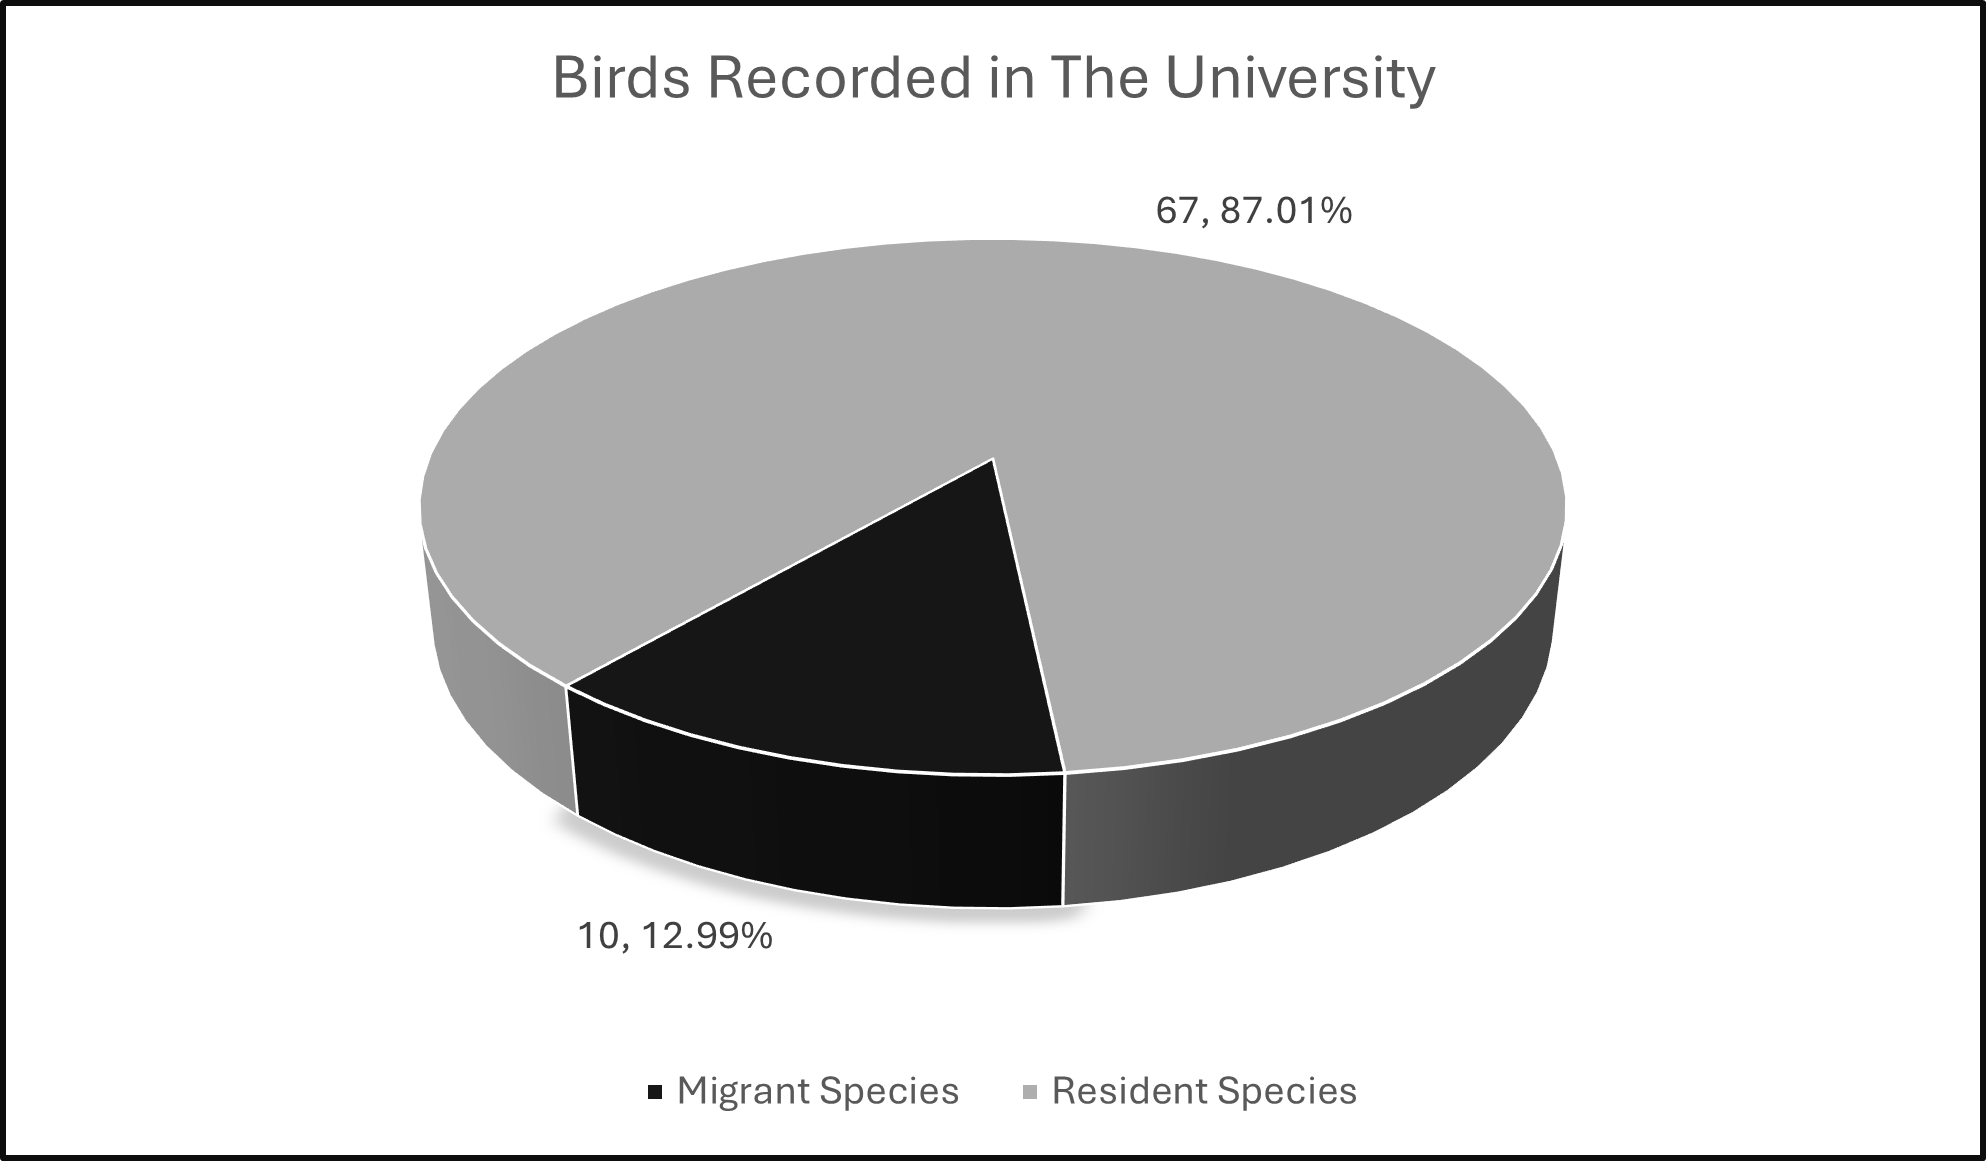
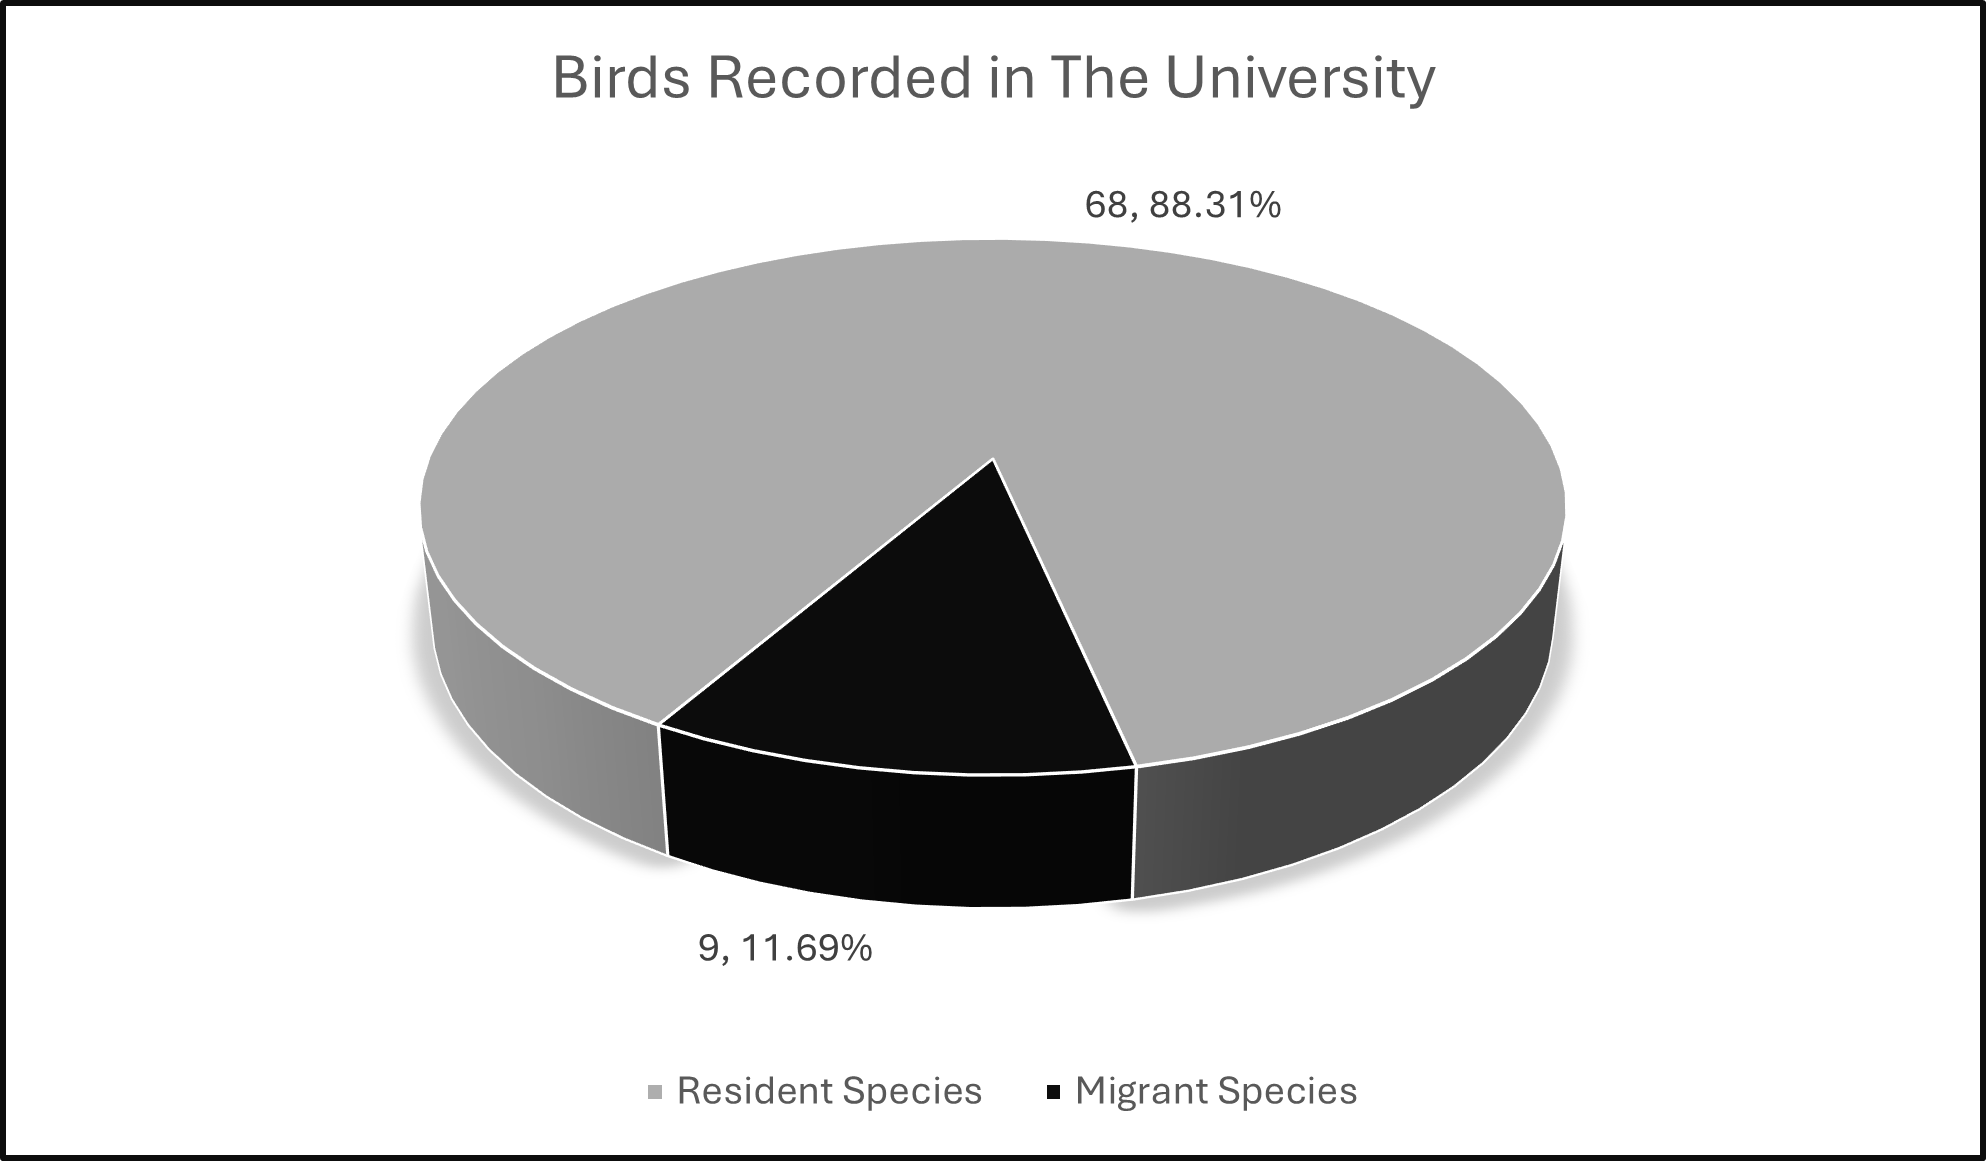
1. sites responsiveness issue solved. 2. fixes #10 . 3. Added link and a QR to the site in the latex doc. 4.Added a footnote for H:,D:,R:

diff --git a/docs/index.html b/docs/index.html
@@ -57,7 +57,7 @@
     <div class="masonry-portfolio" id="masonry">
       <div class="container-fluid">
         <div class="masonry">
-          <div class="item first-item col-md-4 col-sm-6 col-xs-12">
+          <div class="item first-item col-md-4 col-sm-4 col-xs-12">
             <a href="img/DSCN0209.JPG" data-lightbox="image-1"
               ><div class="thumb">
                 <div class="hover-effect">
@@ -71,7 +71,7 @@
                 </div></div
             ></a>
           </div>
-          <div class="item col-md-4 col-sm-6 col-xs-12">
+          <div class="item col-md-4 col-sm-4 col-xs-12">
             <a href="img/DSCN0277.jpg" data-lightbox="image-1"
               ><div class="thumb">
                 <div class="hover-effect">
@@ -85,7 +85,7 @@
                 </div></div
             ></a>
           </div>
-          <div class="item col-md-4 col-sm-6 col-xs-12">
+          <div class="item col-md-4 col-sm-4 col-xs-12">
             <a href="img/DSCN0575.jpg" data-lightbox="image-1"
               ><div class="thumb">
                 <div class="hover-effect">
@@ -99,7 +99,7 @@
                 </div></div
             ></a>
           </div>
-          <div class="item col-md-4 col-sm-6 col-xs-12">
+          <div class="item col-md-4 col-sm-4 col-xs-12">
             <a href="img/DSCN0114.jpg" data-lightbox="image-1"
               ><div class="thumb">
                 <div class="hover-effect">
@@ -113,7 +113,7 @@
                 </div></div
             ></a>
           </div>
-          <div class="item col-md-4 col-sm-6 col-xs-12">
+          <div class="item col-md-4 col-sm-4 col-xs-12">
             <a href="img/DSCN0714.jpg" data-lightbox="image-1"
               ><div class="thumb">
                 <div class="hover-effect">
@@ -127,7 +127,7 @@
                 </div></div
             ></a>
           </div>
-          <div class="item col-md-4 col-sm-6 col-xs-12">
+          <div class="item col-md-4 col-sm-4 col-xs-12">
             <a href="img/DSCN0545.jpg" data-lightbox="image-1"
               ><div class="thumb">
                 <div class="hover-effect">
@@ -141,7 +141,7 @@
                 </div></div
             ></a>
           </div>
-          <div class="item last-item col-md-8 col-sm-6 col-xs-12">
+          <div class="item last-item col-md-8 col-sm-8 col-xs-12">
             <a href="img/DSCN0813.jpg" data-lightbox="image-1"
               ><div class="thumb">
                 <div class="hover-effect">
@@ -155,7 +155,7 @@
                 </div></div
             ></a>
           </div>
-          <div class="item col-md-4 col-sm-6 col-xs-12">
+          <div class="item col-md-4 col-sm-4 col-xs-12">
             <a href="img/DSCN0899.jpg" data-lightbox="image-1"
               ><div class="thumb">
                 <div class="hover-effect">
@@ -169,7 +169,7 @@
                 </div></div
             ></a>
           </div>
-          <div class="item col-md-4 col-sm-6 col-xs-12">
+          <div class="item col-md-4 col-sm-4 col-xs-12">
             <a href="img/DSCN0378.jpg" data-lightbox="image-1"
               ><div class="thumb">
                 <div class="hover-effect">
@@ -183,7 +183,7 @@
                 </div></div
             ></a>
           </div>
-          <div class="item col-md-4 col-sm-6 col-xs-12">
+          <div class="item col-md-4 col-sm-4 col-xs-12">
             <a href="img/DSCN0752.jpg" data-lightbox="image-1"
               ><div class="thumb">
                 <div class="hover-effect">
@@ -197,7 +197,7 @@
                 </div></div
             ></a>
           </div>
-          <div class="item last-item col-md-8 col-sm-6 col-xs-12">
+          <div class="item last-item col-md-8 col-sm-8 col-xs-12">
             <a href="img/DSCN0781.jpg" data-lightbox="image-1"
               ><div class="thumb">
                 <div class="hover-effect">
@@ -211,7 +211,7 @@
                 </div></div
             ></a>
           </div>
-          <div class="item col-md-4 col-sm-6 col-xs-12">
+          <div class="item col-md-4 col-sm-4 col-xs-12">
             <a href="img/DSCN0322.jpg" data-lightbox="image-1"
               ><div class="thumb">
                 <div class="hover-effect">
@@ -225,7 +225,7 @@
                 </div></div
             ></a>
           </div>
-          <div class="item first-item col-md-4 col-sm-6 col-xs-12">
+          <div class="item first-item col-md-4 col-sm-4 col-xs-12">
             <a href="img/DSCN0876.JPG" data-lightbox="image-1"
               ><div class="thumb">
                 <div class="hover-effect">
@@ -238,7 +238,7 @@
                   <img src="img/SMALL0876.jpg" />
                 </div></div
             ></a>
-          </div><div class="item first-item col-md-4 col-sm-6 col-xs-12">
+          </div><div class="item first-item col-md-4 col-sm-4 col-xs-12">
             <a href="img/DSCN0423.JPG" data-lightbox="image-1"
               ><div class="thumb">
                 <div class="hover-effect">
@@ -252,7 +252,7 @@
                 </div></div
             ></a>
           </div>
-          <div class="item col-md-4 col-sm-6 col-xs-12">
+          <div class="item col-md-4 col-sm-4 col-xs-12">
             <a href="img/DSCN0176.jpg" data-lightbox="image-1"
               ><div class="thumb">
                 <div class="hover-effect">
@@ -266,7 +266,7 @@
                 </div></div
             ></a>
           </div>
-          <div class="item col-md-4 col-sm-6 col-xs-12">
+          <div class="item col-md-4 col-sm-4 col-xs-12">
             <a href="img/DSCN0857.jpg" data-lightbox="image-1"
               ><div class="thumb">
                 <div class="hover-effect">
@@ -280,7 +280,7 @@
                 </div></div
             ></a>
           </div>
-          <div class="item col-md-4 col-sm-6 col-xs-12">
+          <div class="item col-md-4 col-sm-4 col-xs-12">
             <a href="img/DSCN0769.jpg" data-lightbox="image-1"
               ><div class="thumb">
                 <div class="hover-effect">
@@ -294,7 +294,7 @@
                 </div></div
             ></a>
           </div>
-          <div class="item last-item col-md-8 col-sm-6 col-xs-12">
+          <div class="item last-item col-md-8 col-sm-8 col-xs-12">
             <a href="img/DSCN0120.jpg" data-lightbox="image-1"
               ><div class="thumb">
                 <div class="hover-effect">
@@ -308,7 +308,7 @@
                 </div></div
             ></a>
           </div>
-          <div class="item last-item col-md-8 col-sm-6 col-xs-12">
+          <div class="item last-item col-md-8 col-sm-8 col-xs-12">
             <a href="img/DSCN0297.jpg" data-lightbox="image-1"
               ><div class="thumb">
                 <div class="hover-effect">
@@ -322,7 +322,7 @@
                 </div></div
             ></a>
           </div>
-          <div class="item col-md-4 col-sm-6 col-xs-12">
+          <div class="item col-md-4 col-sm-4 col-xs-12">
             <a href="img/DSCN0160.jpg" data-lightbox="image-1"
               ><div class="thumb">
                 <div class="hover-effect">
@@ -336,7 +336,7 @@
                 </div></div
             ></a>
           </div>
-          <div class="item col-md-4 col-sm-6 col-xs-12">
+          <div class="item col-md-4 col-sm-4 col-xs-12">
             <a href="img/DSCN0701.jpg" data-lightbox="image-1"
               ><div class="thumb">
                 <div class="hover-effect">
@@ -350,7 +350,7 @@
                 </div></div
             ></a>
           </div>
-          <div class="item col-md-4 col-sm-6 col-xs-12">
+          <div class="item col-md-4 col-sm-4 col-xs-12">
             <a href="img/DSCN0115.jpg" data-lightbox="image-1"
               ><div class="thumb">
                 <div class="hover-effect">
@@ -364,7 +364,7 @@
                 </div></div
             ></a>
           </div>
-          <div class="item col-md-4 col-sm-6 col-xs-12">
+          <div class="item col-md-4 col-sm-4 col-xs-12">
             <a href="img/DSCN0221.jpg" data-lightbox="image-1"
               ><div class="thumb">
                 <div class="hover-effect">
@@ -377,7 +377,7 @@
                   <img src="img/SMALL0221.jpg" />
                 </div></div
             ></a>
-          </div><div class="item first-item col-md-4 col-sm-6 col-xs-12">
+          </div><div class="item first-item col-md-4 col-sm-4 col-xs-12">
             <a href="img/DSCN0606.JPG" data-lightbox="image-1"
               ><div class="thumb">
                 <div class="hover-effect">
@@ -390,7 +390,7 @@
                   <img src="img/SMALL0606.jpg" />
                 </div></div
             ></a>
-          </div><div class="item first-item col-md-4 col-sm-6 col-xs-12">
+          </div><div class="item first-item col-md-4 col-sm-4 col-xs-12">
             <a href="img/DSCN0852.JPG" data-lightbox="image-1"
               ><div class="thumb">
                 <div class="hover-effect">
@@ -404,7 +404,7 @@
                 </div></div
             ></a>
           </div>
-          <div class="item col-md-4 col-sm-6 col-xs-12">
+          <div class="item col-md-4 col-sm-4 col-xs-12">
             <a href="img/DSCN0187.jpg" data-lightbox="image-1"
               ><div class="thumb">
                 <div class="hover-effect">
@@ -418,7 +418,7 @@
                 </div></div
             ></a>
           </div>
-          <div class="item col-md-4 col-sm-6 col-xs-12">
+          <div class="item col-md-4 col-sm-4 col-xs-12">
             <a href="img/DSCN0125.jpg" data-lightbox="image-1"
               ><div class="thumb">
                 <div class="hover-effect">
@@ -432,21 +432,7 @@
                 </div></div
             ></a>
           </div>
-          <div class="item last-item ">
-            <a href="img/DSCN0396.jpg" data-lightbox="image-1"
-              ><div class="thumb">
-                <div class="hover-effect">
-                  <div class="hover-content">
-                    <h1>Pheasant-tailed <em>Jacana</em></h1>
-                    <p>Captured at Boat yard.</p>
-                  </div>
-                </div>
-                <div class="image">
-                  <img src="img/SMALL0396.jpg" />
-                </div></div
-            ></a>
-          </div>
-          <div class="item last-item col-md-8 col-sm-6 col-xs-12">
+          <div class="item last-item col-md-8 col-sm-8 col-xs-12">
             <a href="img/DSCN0694.jpg" data-lightbox="image-1"
               ><div class="thumb">
                 <div class="hover-effect">
@@ -460,7 +446,7 @@
                 </div></div
             ></a>
           </div>
-          <div class="item col-md-4 col-sm-6 col-xs-12">
+          <div class="item col-md-4 col-sm-4 col-xs-12">
             <a href="img/DSCN0154.jpg" data-lightbox="image-1"
               ><div class="thumb">
                 <div class="hover-effect">
@@ -474,7 +460,7 @@
                 </div></div
             ></a>
           </div>
-          <div class="item col-md-4 col-sm-6 col-xs-12">
+          <div class="item col-md-4 col-sm-4 col-xs-12">
             <a href="img/DSCN0927.jpg" data-lightbox="image-1"
               ><div class="thumb">
                 <div class="hover-effect">
@@ -488,7 +474,7 @@
                 </div></div
             ></a>
           </div>
-          <div class="item last-item col-md-8 col-sm-6 col-xs-12">
+          <div class="item last-item col-md-8 col-sm-8 col-xs-12">
             <a href="img/DSCN0495.jpg" data-lightbox="image-1"
               ><div class="thumb">
                 <div class="hover-effect">
@@ -499,6 +485,20 @@
                 </div>
                 <div class="image">
                   <img src="img/SMALL0495.jpg" />
+                </div></div
+            ></a>
+          </div>
+            <div class="item last-item col-xs-12" style="padding: 0px;">
+            <a href="img/DSCN0396.jpg" data-lightbox="image-1"
+              ><div class="thumb">
+                <div class="hover-effect">
+                  <div class="hover-content">
+                    <h1>Pheasant-tailed <em>Jacana</em></h1>
+                    <p>Captured at Boat yard.</p>
+                  </div>
+                </div>
+                <div class="image">
+                  <img src="img/SMALL0396.jpg" />
                 </div></div
             ></a>
           </div>

diff --git a/Document/Chapters/05-Checklist.tex b/Document/Chapters/05-Checklist.tex
@@ -1,6 +1,6 @@
 \chapter{Checklist}
 \label{cp:checklist}
-Following is the comprehensive checklist of bird species recorded in the university premises of University of Moratuwa according to the collected data of sightings from 2021 to 2024 (with their respective conservation statuses[3]).
+Following is the comprehensive checklist\footnote{Starting from this page,for each species; \textbf{H:}, \textbf{D:}, \textbf{R:} indicates \textit{"Habitat \& distribution in Sri Lanka"}, \textit{"Diet"} and \textit{"Recorded areas inside the university"} respectively.} of bird species recorded in the university premises of University of Moratuwa according to the collected data of sightings from 2021 to 2024 (with their respective conservation statuses[3]).
 
 \begin{itemize}%
 \item%

diff --git a/Document/Chapters/03-Diversity.tex b/Document/Chapters/03-Diversity.tex
@@ -11,7 +11,7 @@ Out of 491 total bird species found in Sri Lanka, this is roughly 15.68\%.
     \caption[]{Pie chart showing the recorded number of bird species in the university out of the birds recorded in Sri Lanka.}
     \label{fig:figure-01}
 \end{figure}
-\noindent 10 out of 77 bird species are migrants to the island while the other 67 species are breeding residents. 
+\noindent 9 out of 77 bird species are migrants to the island while the other 68 species are breeding residents. 
 
 \begin{figure}[!htpb]
     \centering

diff --git a/Document/Chapters/10-References.tex b/Document/Chapters/10-References.tex
@@ -10,3 +10,10 @@
     \\
     \item[\textbf{[4]}] eBird. (n.d.). Explore Species on the eBird Platform. Retrieved from \url{https://ebird.org/}.
 \end{description}
+
+\begin{figure}[!htpb]
+    \centering
+    \includegraphics[width=0.4\textwidth]{Figures/QR.png}
+    \caption[]{Find the extended image gallery \href{https://chathura-de-silva.github.io/Mora-Bird-Diversity/}{here.}}
+    \label{fig:figure-01}
+\end{figure}
